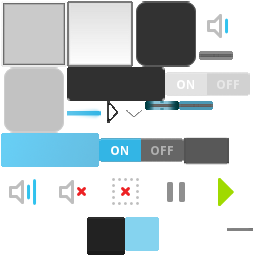
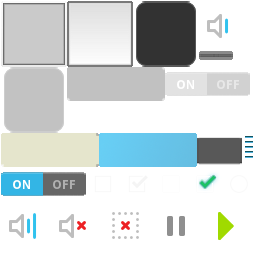
cambiado fondo tabbedpanel y modificados botones de screens

diff --git a/modules/views/subMenuCapturarFallas/propstipofalla/propstipofalla.py b/modules/views/subMenuCapturarFallas/propstipofalla/propstipofalla.py
@@ -206,11 +206,17 @@ class PropsFallaConfirmadaScreen(ScreenRedimensionable):
 							)
 		
 		btnAcept = Button(text = 'Aceptar')
+		btnAcept.background_normal = ESTILO_BOTON_DEFAULT_OPCIONES_MENU
+		btnAcept.background_down = ESTILO_BOTON_DEFAULT_PRESIONADO
 		btnAcept.bind(on_press = self.aceptar)
 		layout.add_widget(btnAcept)
+
 		btnCancel = Button(text = 'Cancelar')
+		btnCancel.background_normal = ESTILO_BOTON_DEFAULT_OPCIONES_MENU
+		btnCancel.background_down = ESTILO_BOTON_DEFAULT_PRESIONADO
 		btnCancel.bind(on_press = self.cancelar)
 		layout.add_widget(btnCancel)
+		
 		self.layout_principal.add_widget(layout)
 		#Se inicaliza el layout que contiene al footer
 		self.layoutFooter = layout

diff --git a/modules/constantes.py b/modules/constantes.py
@@ -634,6 +634,9 @@ ESTILO_TABBED_PANEL_NORMAL = 'atlas://customAppCliente/tab_btn'
 
 ESTILO_AUTOCOMPLETE_OPCIONES = 'atlas://customAppCliente/autocomplete_normal'
 
+ESTILO_FONDO_TABBED_PANEL = 'atlas://customAppCliente/tab'
+
+
 
 
 PATH_LOG_PRINCIPAL = "_logs/log.txt"

diff --git a/modules/resource/customwidgets/customwidgets.py b/modules/resource/customwidgets/customwidgets.py
@@ -443,6 +443,9 @@ class MyTabbedPanel(TabbedPanel):
         self.subMenus = {}
 
         self._inicializarSubScreens()
+
+        #AGREGADO RODRIGO
+        self.background_image = ESTILO_FONDO_TABBED_PANEL
         print "despues de inicializar...\n"
 
         
